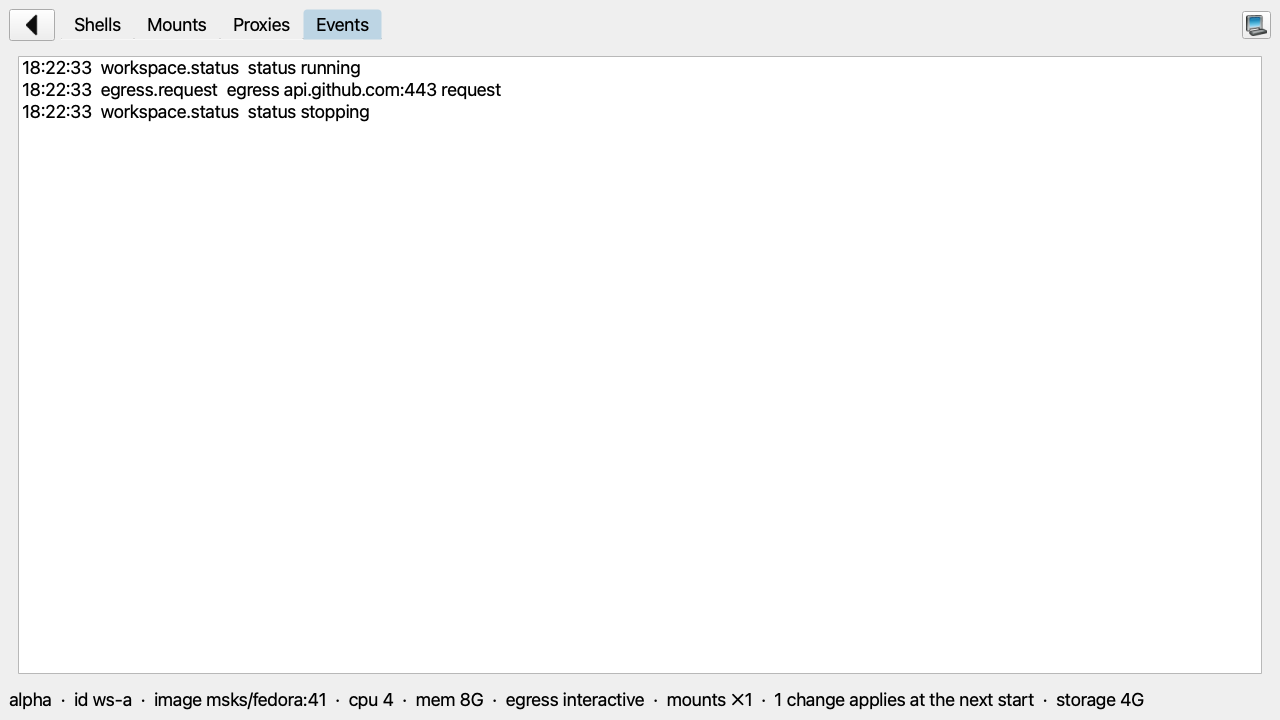
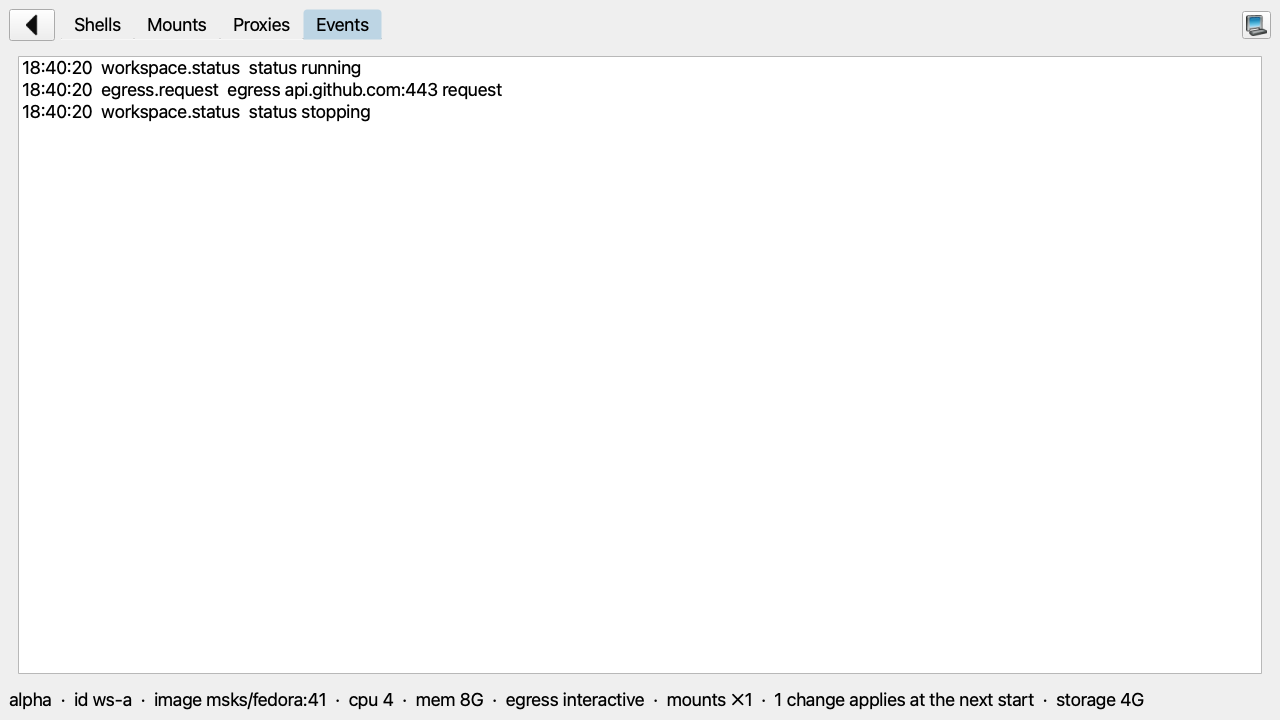
Address the approving delta review's nits (#1008)
The finally's session guard tests what its comment claims
(any(hub.sessions.values()) — close_shell leaves the emptied
workspace keys behind), the defensive catch widens to Exception
with the comment saying belt and braces, and the regenerated
events stamp lands with it.

Changed region(s): [[0.0312, 0.0611, 0.4062, 0.1833]]

diff --git a/scripts/gui_screens.py b/scripts/gui_screens.py
@@ -234,15 +234,18 @@ def main() -> int:
     finally:
         # A capture that failed before its own shutdown leaves
         # the hub's terminal children alive: the finally shuts
-        # every hub that still holds sessions. A hub whose
-        # widgets are already gone fails its own shutdown; the
-        # failure prints one line and the next step still runs,
-        # the temp fontconfig file's unlink included.
+        # every hub that still holds sessions (an emptied
+        # registry leaves its workspace keys behind, so the
+        # values are what count). The catch is belt and braces:
+        # the capture's own shutdown runs while its widgets
+        # live, and whatever a defensive shutdown still raises
+        # must not cancel the next hub or the temp fontconfig
+        # file's unlink — the failure prints one line instead.
         for hub in HUBS:
-            if hub.sessions:
+            if any(hub.sessions.values()):
                 try:
                     hub.shutdown()
-                except RuntimeError as exc:
+                except Exception as exc:
                     print(f"msks-screens: {exc}", file=sys.stderr)
         os.unlink(fonts.name)
     return 0
